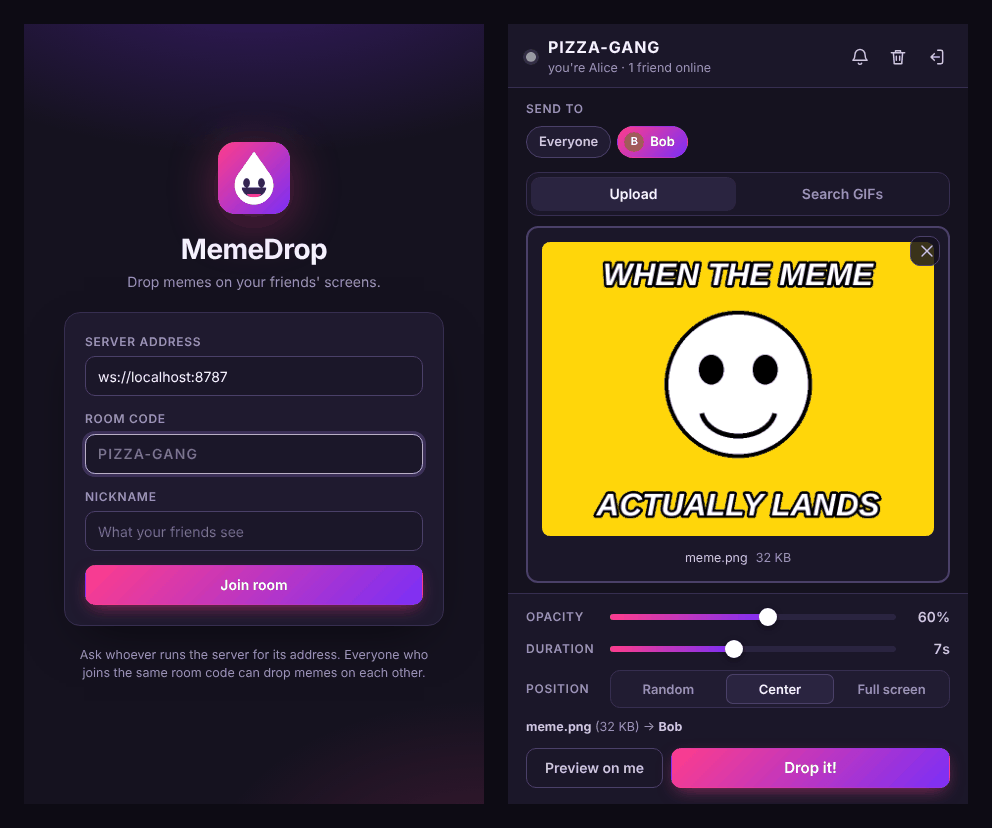
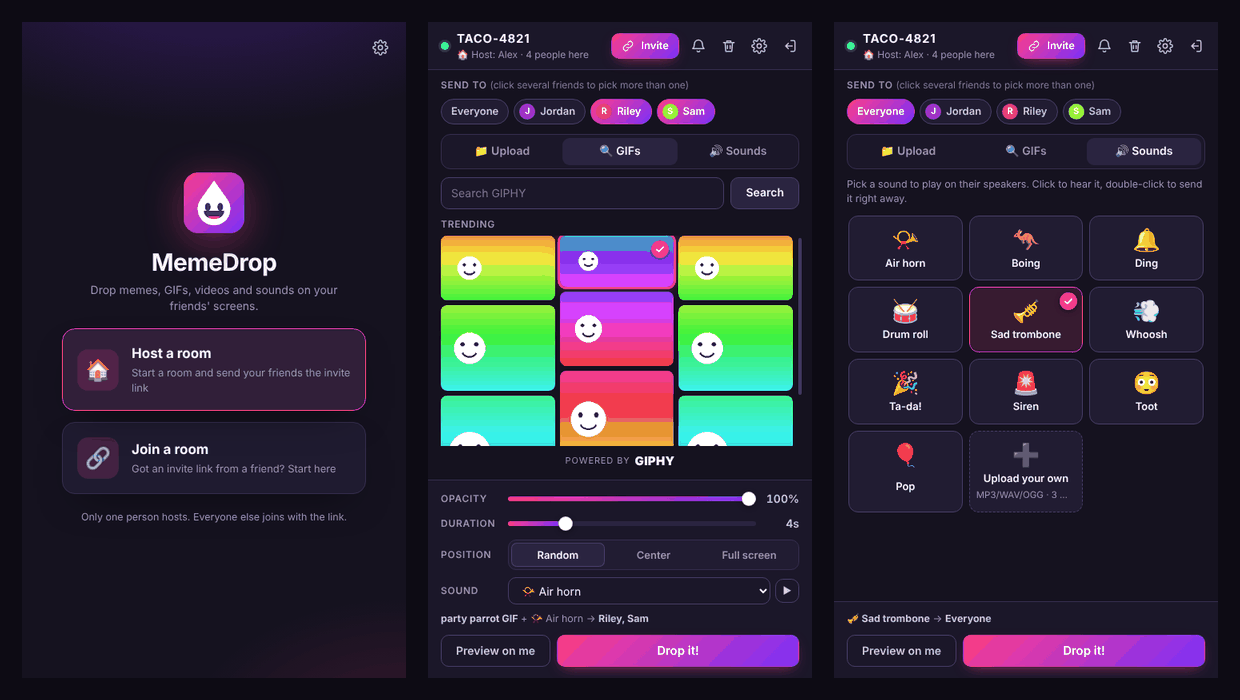
README for the click-only flow, new screenshots, sturdier Windows CI
- README now starts with Install → Host → Join (no terminal), covers
  video, sounds, themes, custom panic key and in-app GIPHY key; the
  standalone server moved to an 'Advanced' section
- New screenshots (welcome, GIF tab with two friends picked + sound,
  soundboard, themes, settings)
- CI caches Electron downloads and retries the installer build once:
  GitHub release downloads have been timing out (504) intermittently

Claude-Session: https://claude.ai/code/session_01JmXU7uwFXHB81srdErqxdf

diff --git a/README.md b/README.md
@@ -1,35 +1,126 @@
 # MemeDrop
 
-Send memes and GIFs straight onto your friends' screens.
+Drop memes, GIFs, videos and sounds straight onto your friends' screens.
 
-Everyone installs the app and joins the same **room code**. Pick a friend (or everyone), drop in an image or search for a GIF, and it pops up on their screen for a few seconds over whatever they're doing, then disappears. The sender chooses how see-through it is, how long it stays, and where it lands.
+One friend clicks **Host a room** and sends everyone the invite link. Everyone else clicks it (or pastes it into MemeDrop) and they're in. Pick a friend, a few friends, or everyone, then drop an image, video, GIF or sound. It pops up on their screen over whatever they're doing, then disappears.
+
+**No terminal, no config files, no accounts.** Everything is done by clicking in the app.
 
 <p align="center">
-  <img src="docs/app.png" alt="The MemeDrop window: join screen and the send screen with an image ready to drop" width="640">
+  <img src="docs/app.png" alt="MemeDrop: the welcome screen, sending a GIF with a sound to two friends, and the soundboard" width="760">
 </p>
 <p align="center">
-  <img src="docs/overlay.png" alt="A meme dropped on someone's screen at 85% opacity, with the sender's name in the corner" width="640">
-  <br><sub>What your friend sees: the meme floats over their apps and their mouse clicks pass straight through it.</sub>
+  <img src="docs/overlay.png" alt="A meme dropped on someone's screen, floating over their apps with the sender's name in the corner" width="640">
+  <br><sub>What your friend sees: the meme floats over their apps, and their mouse clicks pass straight through it.</sub>
 </p>
-
-```
- ┌──────────────┐        ┌───────────────────────┐        ┌──────────────┐
- │ You          │  ws    │  Relay server (Node)  │  ws    │ Friend       │
- │ (Electron)   │ ─────► │  rooms · limits ·     │ ─────► │ meme pops up │
- │              │ ◄───── │  GIPHY search proxy   │ ◄───── │ on screen    │
- └──────────────┘        └───────────────────────┘        └──────────────┘
-```
-
-- **`server/`**: a tiny Node.js WebSocket relay. It keeps track of who's in which room, passes drops along, enforces the limits, and proxies GIPHY search so only the server needs an API key.
-- **`client/`**: the Windows desktop app (Electron). It has a small window for connecting and sending, a tray icon, and a transparent, click-through overlay where memes appear.
-
-There are no accounts. Anyone who knows the server address and your room code can join, so pick a room code that's hard to guess.
 
 ---
 
-## 1. Run the server
+## Get started
 
-You need **Node.js 20.12 or newer** ([download](https://nodejs.org/), the LTS version is fine).
+### 1. Install
+
+Download the installer, run it, and MemeDrop opens. There's no admin password and nothing to set up.
+
+- **Get the installer:** on this repo's GitHub page, open **Actions → CI**, click the newest run with a green tick, scroll down to **Artifacts** and download **MemeDrop-Windows-Installer** (a zip with `MemeDrop Setup.exe` inside). Share that `.exe` with your friends however you like (Discord, Google Drive, USB stick).
+- **"Windows protected your PC"?** The installer isn't code-signed, because certificates cost money. Click **More info → Run anyway**.
+
+### 2. One person hosts
+
+1. Click **Host a room**.
+2. Type your nickname. A fun room name is already filled in; click 🎲 for another.
+3. Choose who can join:
+   - **Friends anywhere**: works over the internet. The first time, MemeDrop downloads a small free helper from Cloudflare (about 30 seconds) so friends can reach you without any router settings.
+   - **Only people on my Wi-Fi**: same house or network. If Windows asks about the firewall, click **Allow access**.
+4. Click **Start room**. The invite link is copied for you, so paste it to your friends.
+
+The host's MemeDrop needs to stay open (closing the window keeps it running in the tray). If the host quits, the room closes.
+
+### 3. Everyone else joins
+
+- **Click the invite link.** It opens a page with an **Open in MemeDrop** button.
+- **Or paste it:** open MemeDrop → **Join a room**. If you've just copied the link, a **Use the invite you copied** button appears; click it, type your nickname, and **Join room**.
+
+Anyone in the room can click **Invite** (top bar) to copy the link and bring more people.
+
+---
+
+## Sending stuff
+
+1. **Send to:** **Everyone**, one friend, or click several friends to pick a group.
+2. Pick what to drop:
+   - **📁 Upload**: drop an image or video on the box, click to browse, or press **Ctrl+V** to paste a screenshot. Images: PNG, JPG, GIF, WebP up to 5 MB. Videos: MP4 or WebM up to 20 MB.
+   - **🔍 GIFs**: trending GIFs and search, powered by GIPHY. Click to select; double-click to send instantly.
+   - **🔊 Sounds**: a soundboard (air horn, sad trombone, drum roll, ta-da…), or **upload your own** MP3/WAV/OGG/M4A. Click to hear it, double-click to send it straight away.
+3. Adjust:
+   - **Opacity**: from faint (10%) to fully solid (100%).
+   - **Duration**: 1–15 seconds. For videos you can tick **Play the whole clip** instead (up to 60 seconds).
+   - **Position**: **Random** (somewhere random, slightly tilted), **Center**, or **Full screen**.
+   - **Sound**: add a sound effect to any image or GIF. Videos can also play their own sound.
+4. **Preview on me** shows it on your own screen first. **Drop it!** (or **Ctrl+Enter**) sends it.
+
+## Getting memes
+
+Drops pop up with the sender's name in the corner, then fade away. They never steal focus or block your mouse, so you can keep typing, clicking or gaming.
+
+| | |
+| --- | --- |
+| **Panic key** (Ctrl+Shift+X by default) | Instantly clears everything on your screen and **stops all sounds**, from any app. |
+| ⚙ **Settings → Panic button → Change** | Press any shortcut you like (e.g. Ctrl+Alt+P, or F9). MemeDrop tells you if another app already uses it. |
+| 🔔 button | Mute everything friends send. |
+| ⚙ **Settings → Sounds** | Turn friends' sounds off or set the volume. |
+| ⚙ **Settings → Colors** | Six color themes: Bubblegum, Ocean, Lime, Sunset, Midnight, Light. |
+| Tray icon (by the clock) | Right-click for Mute, Play sounds, Clear screen, **Show memes on** (pick a monitor), **Start with Windows**, and Quit. |
+
+<p align="center">
+  <img src="docs/themes.png" alt="MemeDrop in the Ocean, Lime and Light themes, and the Settings panel" width="760">
+</p>
+
+Closing the window just hides MemeDrop in the tray. Right-click the tray icon → **Quit MemeDrop** to really quit.
+
+---
+
+## GIF search (one-time, host only)
+
+GIF search uses GIPHY, which needs a free key. **Only the host needs one**, and everyone in the host's room gets GIF search automatically.
+
+1. In MemeDrop, open the **GIFs** tab (or ⚙ **Settings → GIF search**) and click **Get a free GIPHY key**.
+2. Sign up, click **Create an App**, choose **API**, and give it any name.
+3. Copy the key, paste it into MemeDrop and click **Save key**. GIF search switches on for the whole room immediately.
+
+Your key stays on your PC (encrypted by Windows) and is never sent to your friends. GIPHY's free keys allow about 100 searches an hour; MemeDrop caches results so a group of friends stays well under that.
+
+As GIPHY requires, the GIFs tab shows **Powered by GIPHY** and GIFs on screen are labelled **via GIPHY**. GIF files aren't relayed: only the GIPHY link is sent, and each friend's app loads it from GIPHY directly.
+
+---
+
+## Troubleshooting
+
+- **The overlay is a black box instead of see-through.** Some graphics drivers don't like transparent windows. Right-click the MemeDrop shortcut → **Properties** → add ` --no-gpu` to the end of **Target**.
+- **Memes don't show over my game.** Games in *exclusive* fullscreen draw over everything. Switch the game to **borderless windowed** (sometimes called "fullscreen windowed").
+- **"Ctrl+Shift+X is taken by another app."** Pick a different panic key in ⚙ Settings. While MemeDrop runs, your panic key belongs to MemeDrop (e.g. Ctrl+Shift+X normally opens VS Code's Extensions panel).
+- **Friends can't connect ("Friends anywhere").** Click **Restart room** if MemeDrop says the connection dropped, then send the new invite link. Some school or work networks block Cloudflare tunnels; try **Only people on my Wi-Fi** if you're on the same network.
+- **Friends can't connect ("Only my Wi-Fi").** Make sure everyone's on the same network, and that you clicked **Allow access** when Windows asked. If you missed it: Windows Security → Firewall → *Allow an app through firewall* → tick MemeDrop.
+- **No sound.** Check ⚙ Settings → Sounds is on and the volume isn't at 0, and that the sender didn't untick **Play its sound** on their video.
+- **GIF search says it's off.** The host needs to add a GIPHY key (see above).
+
+---
+
+## Limits and safety
+
+There are no accounts, so anyone with the invite link can join. Only share it with friends.
+
+- **Files are checked by their contents**, not their names. Images bigger than 16384 px on a side or 64 megapixels are refused, so a tiny "image bomb" can't freeze anyone's PC.
+- **Sizes:** images 5 MB, videos 20 MB, uploaded sounds 3 MB. Whole-clip videos and sounds stop after 60 s.
+- **GIFs** can only come from GIPHY, and the overlay window is locked down so it can't load anything else.
+- **Spam limits:** about 8 drops per 10 seconds per person, 20 GIF searches a minute, 30 people per room, and at most 6 things on screen at once.
+- **The app itself:** its pages run sandboxed without Node access, can't open pop-ups or navigate away, and camera/microphone/other permission requests are always denied.
+
+---
+
+## Advanced: run a standalone server
+
+You don't need this, because hosting inside the app covers normal use. It's for an always-on room that doesn't depend on someone's PC being on.
 
 ```bash
 cd server
@@ -38,197 +129,45 @@ cp .env.example .env      # Windows: copy .env.example .env
 npm start
 ```
 
-You'll see something like:
+This needs **Node.js 20.12+**. Put a GIPHY key in `server/.env` (`GIPHY_API_KEY=…`) to enable GIF search; `.env` is gitignored. It works on any Node host with WebSockets (Render, Railway, Fly.io, a VPS…).
 
-```
-  MemeDrop relay is running!
+Friends join with **Join a room → No link? Connect with a server address**, or with an invite link of the form `https://your-server/join/ROOM`.
 
-  Local:    ws://localhost:8787
-  Network:  ws://192.168.1.20:8787
-
-  GIF search: off — set GIPHY_API_KEY in server/.env to turn it on
-```
-
-Give your friends the address that works for them:
-
-| Where are your friends? | What to do |
-| --- | --- |
-| **Same Wi-Fi / LAN** | Use the `Network:` address, e.g. `ws://192.168.1.20:8787`. Allow Node through Windows Firewall when it asks. |
-| **Anywhere, easiest** | Install [Tailscale](https://tailscale.com/) on everyone's PC and use your Tailscale IP: `ws://100.x.y.z:8787`. |
-| **Anywhere, quick tunnel** | Run `cloudflared tunnel --url http://localhost:8787` ([cloudflared](https://developers.cloudflare.com/cloudflare-one/connections/connect-networks/downloads/)). It prints an `https://….trycloudflare.com` address that friends can paste in as-is (the app turns `https://` into `wss://`). The address changes every time you restart the tunnel. |
-| **Anywhere, always on** | Host `server/` on any Node host that supports WebSockets (Render, Railway, Fly.io, a small VPS…). Set the root directory to `server`, the start command to `npm start`, and add `GIPHY_API_KEY` in the host's environment settings. Friends use `https://your-app.example.com` (or `wss://…`, same thing). Free tiers often go to sleep when idle, so the first connection can take a few seconds. |
-| **Port forwarding** | Forward TCP port 8787 on your router to the PC running the server and share `ws://your-public-ip:8787`. |
-
-The client is forgiving about the format. `192.168.1.20:8787`, `http://…` and `https://…` are all converted to the right `ws://` or `wss://` address.
-
-### Server settings (`server/.env`)
-
-| Variable | Default | What it does |
+| Setting (`server/.env`) | Default | |
 | --- | --- | --- |
-| `GIPHY_API_KEY` | *(empty)* | Turns on GIF search. See below. |
-| `PORT` | `8787` | Port for both HTTP and WebSocket. Most hosts set this for you. |
-| `HOST` | `0.0.0.0` | Interface to listen on. |
-| `MAX_IMAGE_MB` | `5` | Biggest image someone can upload. |
-| `MAX_ROOM_SIZE` | `30` | Max people per room. |
-| `GIPHY_RATING` | `pg-13` | GIPHY content rating: `g`, `pg`, `pg-13` or `r`. |
-| `GIPHY_LANG` | `en` | Search language. |
-| `GIPHY_CACHE_SECONDS` | `300` | How long search results are cached. Trending is cached for at least 10 minutes. |
-
-Real environment variables take priority over `.env`. A health check lives at `GET /health`.
-
----
-
-## 2. Turn on GIF search (GIPHY)
-
-1. Sign in at **[developers.giphy.com](https://developers.giphy.com/dashboard/)**, click **Create an App**, choose **API**, and copy the API key.
-2. Put it in `server/.env`:
-   ```
-   GIPHY_API_KEY=your-key-here
-   ```
-3. Restart the server. It should now say `GIF search: on`.
-
-How it works:
-
-- **The key stays on the server.** Friends' apps ask the relay for search results over their existing connection, and only people who have joined a room can search. The key never goes to clients and is never written to logs.
-- **`.env` is gitignored**, so you can't commit your key by accident. Only `.env.example` is in the repo.
-- **GIFs aren't relayed as files.** When you send a GIF, only its GIPHY link goes through the server, and your friend's app loads it from GIPHY itself. Both the server and the app refuse links that aren't `https://…giphy.com`.
-- **Results are cached briefly** and identical searches that arrive at the same moment share one request. New GIPHY keys start as *beta* keys, limited to roughly 100 requests per hour. Caching keeps a small group well under that. If you do hit the limit, the app says "GIF search is resting" and it recovers on its own. You can apply for a production key from the GIPHY dashboard.
-- **Attribution**: the Search GIFs tab shows "Powered by GIPHY" (it links to giphy.com), and GIFs on screen are tagged "via GIPHY", per GIPHY's attribution rules (see the [GIPHY developer docs](https://developers.giphy.com/docs/api/)). If you apply for a production key, GIPHY may ask you to use their official logo artwork. Swap it into the `.giphy-attribution` element in `client/src/renderer/control/index.html`.
-
----
-
-## 3. Install the app (Windows)
-
-### Option A: download a ready-made installer
-
-Every push that changes the app builds a Windows installer with GitHub Actions:
-
-1. Open the repo on GitHub, then **Actions**, then **CI**, then the latest green run.
-2. Under **Artifacts**, download **MemeDrop-Windows-Installer** (a zip with `MemeDrop Setup x.y.z.exe` inside).
-3. Share the `.exe` with your friends (Discord, Google Drive, whatever).
-
-You can also start a fresh build any time with **Run workflow** on the CI page.
-
-### Option B: build the installer yourself
-
-On a Windows PC with Node.js installed:
-
-```bash
-cd client
-npm install
-npm run dist
-```
-
-The installer ends up at `client/dist/MemeDrop Setup 1.0.0.exe`.
-
-### Installing
-
-Double-click the installer. It installs for the current user (no admin rights needed), adds Start Menu and desktop shortcuts, and launches MemeDrop.
-
-> **"Windows protected your PC"?** The installer isn't code-signed, because certificates cost money. Click **More info → Run anyway**.
-
-### Option C: run from source (any OS, for tinkering)
-
-```bash
-cd client
-npm install
-npm start
-```
-
----
-
-## 4. Using MemeDrop
-
-**Joining:** enter the server address, a room code (letters, numbers, `-` and `_`, not case-sensitive) and a nickname, then click **Join room**. MemeDrop remembers these and reconnects automatically next time, including after Wi-Fi drops or sleep.
-
-**Sending:**
-
-1. **Send to**: pick **Everyone** or one friend.
-2. **Upload** tab: drop an image onto the box, click to browse, or just **Ctrl+V** to paste a screenshot or copied image. Supports PNG, JPG, GIF and WebP, up to 5 MB.
-   **Search GIFs** tab: browse trending, search, and click a GIF to select it. Double-clicking a GIF sends it immediately.
-3. Set the **opacity** (10% faint to 100% fully solid), **duration** (1–15 seconds) and **position**:
-   - **Random**: medium-sized, somewhere random, with a slight tilt
-   - **Center**: up to 60% of the screen, dead center
-   - **Full screen**: as big as the screen allows, with the whole image visible
-4. Use **Preview on me** to see it on your own screen first, then **Drop it!** (or **Ctrl+Enter**).
-
-**Receiving:** the meme pops up on your screen with the sender's name in the corner, then fades out. It never takes focus or blocks the mouse, so you can keep typing, clicking or gaming underneath. At most 6 are shown at once.
-
-**Staying in control:**
-
-| | |
-| --- | --- |
-| **Ctrl+Shift+X** | **Panic button.** Instantly clears everything on your screen, from any app. |
-| 🔔 button / tray → **Mute incoming memes** | Hide everything friends send until you unmute. You'll still see "X sent a meme" in the window. |
-| 🗑 button / tray → **Clear screen now** | Same as the panic hotkey. |
-| Tray → **Show memes on** | Choose which monitor memes appear on (only shown if you have more than one). |
-| Tray → **Start with Windows** | Launch quietly into the tray when you log in. |
-| Tray → **Quit MemeDrop** | Closing the window only hides it to the tray. Use this to actually quit. |
-
----
-
-## Limits and safety
-
-This is built for a small group of friends, so there are no accounts and no heavy security. It still won't let anyone wreck your PC:
-
-- **Images**: max 5 MB, PNG, JPG, GIF or WebP only. The file type is checked from the file's contents, not its name. Images bigger than 16384 px on a side or 64 megapixels are refused, so a tiny "image bomb" can't freeze anyone's screen.
-- **GIFs**: only `https://…giphy.com` links can be sent, and the overlay window is locked down (Content-Security-Policy) so it can't load anything else.
-- **Spam**: about 8 drops per 10 seconds per person, 20 GIF searches per minute, 30 people per room.
-- **Duration and opacity** are clamped to 1–15 s and 10–100% by the server, whatever the sender's app says.
-- **The app itself**: its pages run sandboxed with no Node access, can't navigate anywhere or open pop-ups, and every permission request (camera, mic…) is denied.
-- **Traffic** is plain `ws://` unless your server sits behind HTTPS (`wss://`). That's fine on a LAN or Tailscale. Use a host or tunnel with HTTPS if you'd rather not send memes unencrypted over the internet.
-
----
-
-## Troubleshooting
-
-- **The overlay shows up as a black box instead of see-through.** Some graphics drivers don't like transparent windows. Start MemeDrop with GPU acceleration off: right-click the shortcut, choose **Properties**, and add ` --no-gpu` to the end of **Target**.
-- **Memes don't appear over my game.** Games in *exclusive* fullscreen draw over everything. Switch the game to **borderless windowed** (sometimes called "fullscreen windowed").
-- **Ctrl+Shift+X doesn't do anything.** Another app has claimed that shortcut, and MemeDrop shows a yellow banner when this happens. The 🗑 button and the tray's **Clear screen now** always work. Also note that while MemeDrop runs, it takes Ctrl+Shift+X from other apps (e.g. VS Code's Extensions shortcut).
-- **"Can't reach the server."** Check the server is running, the address and port are right, and the server PC's firewall allows Node. Hosted or tunnel addresses need `https://` or `wss://`, not `ws://`.
-- **"That address isn't a MemeDrop server."** You're probably pointing at a web page rather than the relay. Check the port, and use `wss://` for HTTPS hosts.
-- **"GIF search isn't set up on this server."** The server has no `GIPHY_API_KEY`. See section 2.
-- **"GIF search is resting."** You've hit GIPHY's hourly limit on a beta key. Wait a bit, or get a production key.
+| `GIPHY_API_KEY` | *(empty)* | Turns on GIF search |
+| `PORT` / `HOST` | `8787` / `0.0.0.0` | Where to listen (HTTP + WebSocket share the port) |
+| `MAX_IMAGE_MB` / `MAX_VIDEO_MB` / `MAX_SOUND_MB` | `5` / `20` / `3` | Upload size caps |
+| `MAX_ROOM_SIZE` | `30` | People per room |
+| `GIPHY_RATING` / `GIPHY_LANG` | `pg-13` / `en` | GIF content rating and search language |
+| `GIPHY_CACHE_SECONDS` | `300` | How long search results are cached |
 
 ---
 
 ## Development
 
 ```
-server/
-  src/index.js       entry point: loads .env, starts the server
-  src/server.js      HTTP (health check) + WebSocket server
-  src/relay.js       rooms, roster, drops, limits, wire protocol
-  src/giphy.js       GIPHY search/trending proxy with cache
-  src/validate.js    input checks, image sniffing, URL allow-list
-  test/              node:test suites (real sockets + a fake GIPHY)
-client/
-  src/main/          Electron main process: app, connection, overlay, tray, settings
-  src/preload/       the only bridge between pages and the main process
-  src/renderer/      control window (UI) and overlay window
-  src/shared/        validation + overlay layout (unit tested)
-  assets/            icons (regenerate with scripts/make-icons.py)
+server/src/            the relay: rooms, drops, limits, GIPHY proxy, invite page
+client/src/main/       Electron main process: app, hosting, Cloudflare tunnel, connection, overlay, tray, settings
+client/src/renderer/   control window (UI) and overlay window
+client/src/shared/     invite links, panic-key recorder, built-in sounds, validation, layout
+client/src/relay/      generated copy of server/src (scripts/sync-relay.js), so the app can host
 ```
-
-**Tests:**
 
 ```bash
-cd server && npm install && npm test
-cd client && npm install && npm test   # the client tests talk to the real server code, so install the server first
+cd server && npm install && npm test     # relay tests (real sockets, fake GIPHY)
+cd client && npm install && npm test     # app logic, invites, hotkeys, tunnel, hosting
+cd client && npm run test:e2e            # launches the real app; on Windows also checks real screen pixels
+cd client && npm start                   # run the app from source
+cd client && npm run dist                # build the Windows installer → client/dist/
 ```
 
-**End-to-end smoke test.** `npm run test:e2e` (in `client/`) launches the real app, joins a room, has a fake friend drop a meme, and checks the overlay. On Windows and macOS it also checks real screen pixels: the meme is drawn, everything around it shows through, 50% opacity blends correctly, and a real Ctrl+Shift+X keypress clears it. CI runs it against the packaged `MemeDrop.exe` and uploads the screenshots as an artifact. To test a packaged build yourself, set `MEMEDROP_EXE=dist/win-unpacked/MemeDrop.exe`.
+CI runs all of this on every push, including the end-to-end test against the packaged `MemeDrop.exe` on a real Windows desktop. It uploads the installer and the screenshots as artifacts.
 
-**Two clients on one PC.** Each copy needs its own settings folder:
+To test with **two copies on one PC**, give the second its own settings folder:
 
 ```powershell
-# PowerShell, second terminal
 $env:MEMEDROP_USER_DATA = "$env:TEMP\memedrop-2"; npm start
 ```
 
-```bash
-# macOS / Linux
-MEMEDROP_USER_DATA=/tmp/memedrop-2 npm start
-```
-
-**Wire protocol.** JSON over WebSocket. It's documented at the top of [`server/src/relay.js`](server/src/relay.js).
+The built-in sounds are synthesized in code ([`client/src/shared/sounds.js`](client/src/shared/sounds.js)), so there are no audio files to license. The wire protocol is documented at the top of [`server/src/relay.js`](server/src/relay.js).
